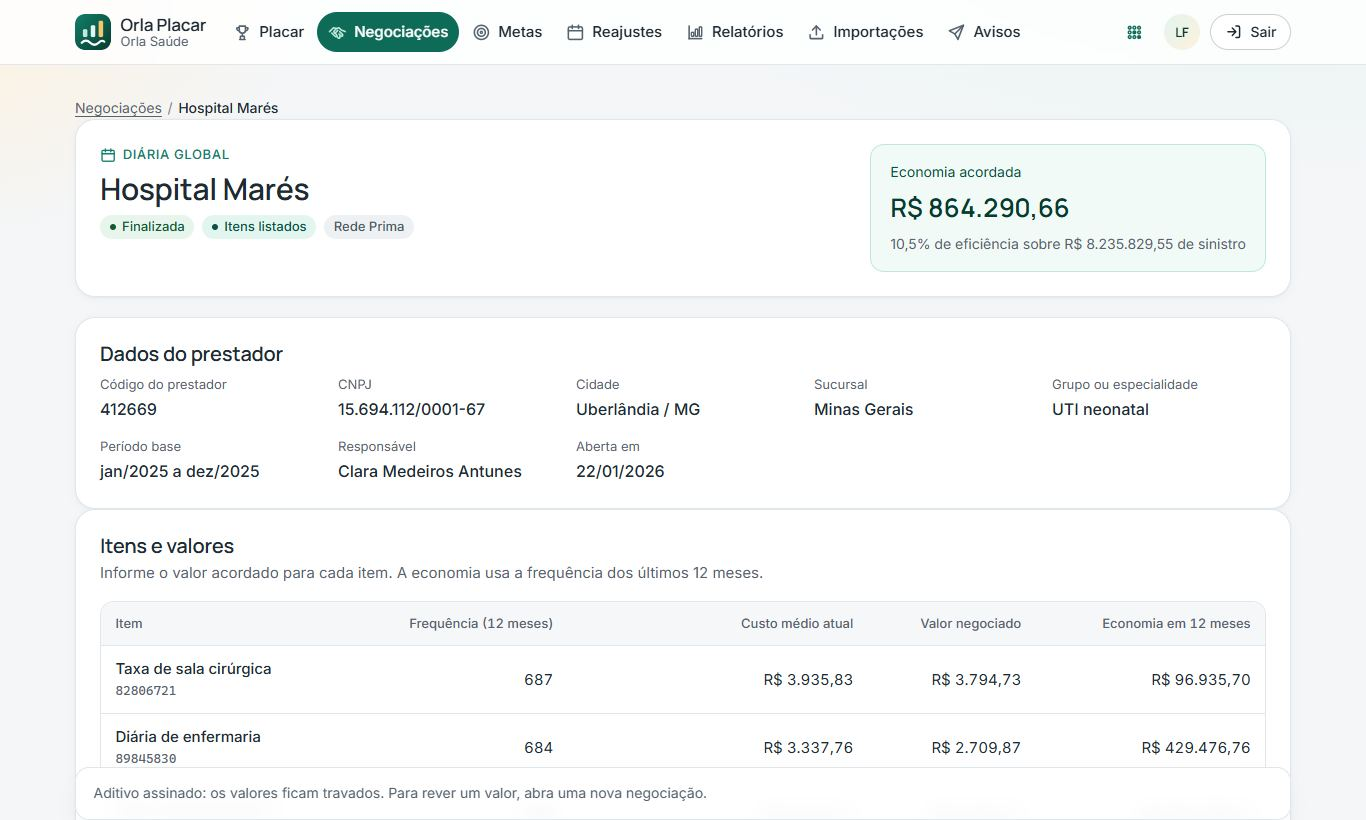
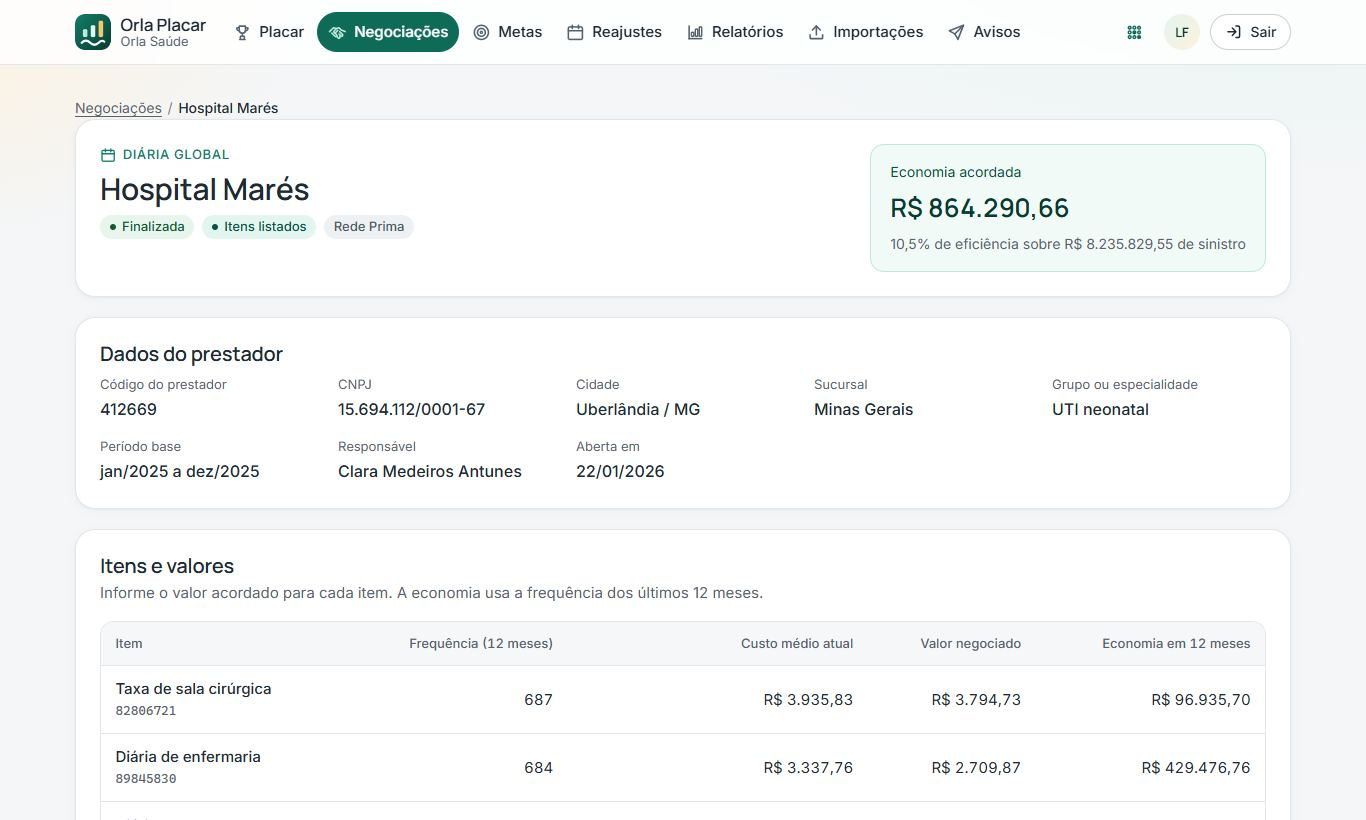
Refina espaçamentos e detalhes de design nos três produtos
- Barra de ações dentro de cartão vira rodapé do próprio cartão, e o
  botão principal fica sempre à direita (inclusive no passo 1 da ficha).
- Barra de ferramentas dos cadastros com busca e filtros na mesma altura
  e numa linha só; contagem com respiro antes da tabela.
- Filtros de Reajustes e formulário de Importações reorganizados para não
  sobrar campo sozinho numa linha.
- Campo de arquivo com botão no estilo do DS e sem texto duplicado.
- Códigos e protocolos sem quebra de linha; selo do próximo reajuste
  junto do mês; itens com largura mínima em tabelas estreitas.
- Fila de distribuição e troca de emissor em largura total.
- Dados em duas colunas no celular e espaço entre formulários e cartões.
- Barra de negociação finalizada deixa de ficar presa ao rodapé da tela.
- Capturas do README atualizadas.

diff --git a/ds/ds.css b/ds/ds.css
@@ -190,7 +190,8 @@ a:hover { text-decoration-thickness: 2px; }
 .nowrap { white-space: nowrap; }
 .num { font-variant-numeric: tabular-nums; text-align: right; white-space: nowrap; }
 .tnum { font-variant-numeric: tabular-nums; }
-.mono { font-family: ui-monospace, "Cascadia Mono", Consolas, monospace; font-size: .92em; }
+.mono { font-family: ui-monospace, "Cascadia Mono", Consolas, monospace; font-size: .92em; white-space: nowrap; }
+.cluster.nowrap { flex-wrap: nowrap; }
 .stack > * + * { margin-top: 1.25rem; }
 .stack-sm > * + * { margin-top: .75rem; }
 .mt { margin-top: 1.25rem; }
@@ -268,7 +269,7 @@ a:hover { text-decoration-thickness: 2px; }
   padding: clamp(1rem, 2.5vw, 1.5rem);
   min-width: 0;
 }
-.card + .card { margin-top: 1.25rem; }
+.card + .card, form + .card, .card + form, form + section, .card + div:not([class]) { margin-top: 1.25rem; }
 .grid-2 > .card + .card, .grid-3 > .card + .card { margin-top: 0; }
 .grid-2 + .card, .card + .grid-2 { margin-top: 1.25rem; }
 .card__head {
@@ -288,13 +289,13 @@ a:hover { text-decoration-thickness: 2px; }
 /* Lista de definições (dados do prestador, da ficha etc.) */
 .facts {
   display: grid;
-  grid-template-columns: repeat(auto-fill, minmax(180px, 1fr));
+  grid-template-columns: repeat(auto-fill, minmax(min(180px, 42%), 1fr));
   gap: .9rem 1.5rem;
   margin: 0;
 }
 .facts div { min-width: 0; }
 .facts dt { font-size: .8125rem; color: var(--text-muted); }
-.facts dd { margin: .1rem 0 0; font-weight: 500; overflow-wrap: anywhere; }
+.facts dd { margin: .1rem 0 0; font-weight: 500; overflow-wrap: break-word; }
 
 /* ----------------------------------------------------------------- Botões */
 .btn {
@@ -384,6 +385,7 @@ a:hover { text-decoration-thickness: 2px; }
   gap: 1rem 1.25rem;
 }
 .form-grid > * { grid-column: span 12; }
+.choice-group + .form-grid, .form-grid + .form-grid, .form-grid + .choice-group { margin-top: 1rem; }
 @media (min-width: 720px) {
   .form-grid > .span-2 { grid-column: span 2; }
   .form-grid > .span-3 { grid-column: span 3; }
@@ -446,6 +448,20 @@ a:hover { text-decoration-thickness: 2px; }
 .input:focus-visible, .select:focus-visible, .textarea:focus-visible { border-color: var(--accent-600); border-radius: var(--radius-sm); }
 .input[readonly] { background: var(--surface-2); border-style: dashed; }
 .input:disabled, .select:disabled, .textarea:disabled { background: var(--surface-2); color: var(--text-muted); cursor: not-allowed; }
+.input[type="file"] { padding: .35rem .4rem; cursor: pointer; }
+.input[type="file"]::file-selector-button {
+  margin-right: .85rem;
+  padding: .45rem 1rem;
+  border: 1px solid var(--border-strong);
+  border-radius: 999px;
+  background: var(--surface);
+  color: var(--text);
+  font: inherit;
+  font-size: var(--text-sm);
+  font-weight: 500;
+  cursor: pointer;
+}
+.input[type="file"]:hover::file-selector-button { background: var(--surface-3); }
 .input--money, .input--num { text-align: right; font-variant-numeric: tabular-nums; }
 .input--sm, .select--sm { min-height: 36px; padding-block: .3rem; font-size: var(--text-sm); }
 [aria-invalid="true"] { border-color: var(--danger) !important; box-shadow: 0 0 0 1px var(--danger); }
@@ -540,11 +556,23 @@ a:hover { text-decoration-thickness: 2px; }
   backdrop-filter: blur(10px);
 }
 .form-actions p { margin: 0; font-size: var(--text-sm); color: var(--text-muted); }
+.form-actions > :last-child { margin-left: auto; }
+/* Dentro de um cartão, a barra vira o rodapé dele (sem cartão dentro de cartão) */
+.card > .form-actions,
+.card .form-actions:last-child {
+  margin: 1.5rem calc(-1 * clamp(1rem, 2.5vw, 1.5rem)) calc(-1 * clamp(1rem, 2.5vw, 1.5rem));
+  padding: .9rem clamp(1rem, 2.5vw, 1.5rem);
+  border-width: 1px 0 0;
+  border-radius: 0 0 var(--radius-lg) var(--radius-lg);
+  box-shadow: 0 -10px 20px -16px rgb(16 32 48 / .25);
+}
+.form-actions--static { margin-bottom: 1.25rem; position: static; box-shadow: none; background: var(--surface-2); }
 
 /* Filtros */
 .filters .form-grid { align-items: end; }
 .filters__actions { display: flex; flex-wrap: wrap; justify-content: flex-end; gap: .5rem; margin-top: 1rem; }
 .filters__actions--split { justify-content: space-between; align-items: center; }
+.form-grid > .filters__actions--inline { align-self: end; margin-top: 0; }
 .filters .segmented { margin-bottom: 1rem; }
 .toolbar {
   display: flex;
@@ -554,13 +582,15 @@ a:hover { text-decoration-thickness: 2px; }
   gap: .75rem 1rem;
   margin-bottom: 1rem;
 }
-.toolbar .cluster > .select { width: auto; min-width: 180px; max-width: 260px; }
+.toolbar .cluster { flex: 1 1 auto; }
+.toolbar .cluster > .select { width: auto; min-width: 170px; max-width: 240px; }
+.toolbar + .toolbar__info { margin: -.25rem 0 .85rem; }
 .col-actions .btn-row { flex-wrap: nowrap; gap: .25rem; justify-content: flex-end; }
 .toolbar__info { margin: 0; color: var(--text-muted); font-size: var(--text-md); }
 .search {
   position: relative;
-  flex: 1 1 260px;
-  max-width: 420px;
+  flex: 1 1 220px;
+  max-width: 340px;
 }
 .search .icon { position: absolute; left: .85rem; top: 50%; transform: translateY(-50%); color: var(--text-muted); pointer-events: none; }
 .search .input { padding-left: 2.6rem; border-radius: 999px; }
@@ -854,12 +884,14 @@ a:hover { text-decoration-thickness: 2px; }
   white-space: nowrap;
 }
 .table tbody th { font-weight: 500; }
+.table tbody th[scope="row"] { min-width: 9rem; }
 .table tbody tr:last-child > * { border-bottom: 0; }
 .table tbody tr:hover > * { background: var(--accent-50); }
 .table tr.is-selected > * { background: var(--accent-50); }
 .table tr.is-highlight > * { background: var(--signal-100); }
 .table tfoot td, .table tfoot th { background: var(--surface-2); font-weight: 600; border-top: 1px solid var(--border); border-bottom: 0; }
 .table .num { text-align: right; }
+.table .input--num, .table .input--money { max-width: 150px; margin-left: auto; }
 .table--compact th, .table--compact td { padding: .45rem .7rem; }
 .col-check { width: 44px; }
 .col-check input { width: 18px; height: 18px; margin: 0; accent-color: var(--primary); cursor: pointer; }

diff --git a/controle-aditamento/reajustes.html b/controle-aditamento/reajustes.html
@@ -38,11 +38,11 @@
       <form class="card filters" id="filtros" novalidate aria-labelledby="filtros-titulo">
         <h2 class="visually-hidden" id="filtros-titulo">Filtros</h2>
         <div class="form-grid">
-          <div class="field span-3">
+          <div class="field span-4">
             <label for="f-busca">Prestador ou cidade</label>
             <input class="input" id="f-busca" name="busca" type="search" autocomplete="off">
           </div>
-          <div class="field span-3">
+          <div class="field span-4">
             <label for="f-sucursal">Sucursal</label>
             <select class="select" id="f-sucursal" name="sucursal"></select>
           </div>
@@ -54,18 +54,18 @@
             <label for="f-indice">Índice</label>
             <select class="select" id="f-indice" name="indice"></select>
           </div>
-          <div class="field span-2">
+          <div class="field span-3">
             <label for="f-de">Reajuste a partir de</label>
             <input class="input" id="f-de" name="de" type="month" placeholder="AAAA-MM">
           </div>
-          <div class="field span-2">
+          <div class="field span-3">
             <label for="f-ate">Reajuste até</label>
             <input class="input" id="f-ate" name="ate" type="month" placeholder="AAAA-MM">
           </div>
-        </div>
-        <div class="filters__actions">
-          <button class="btn" type="button" id="limpar">Limpar filtros</button>
-          <button class="btn btn--primary" type="submit"><svg class="icon" aria-hidden="true" focusable="false"><use href="../ds/icons.svg#i-search"/></svg> Filtrar</button>
+          <div class="filters__actions filters__actions--inline span-6">
+            <button class="btn" type="button" id="limpar">Limpar filtros</button>
+            <button class="btn btn--primary" type="submit"><svg class="icon" aria-hidden="true" focusable="false"><use href="../ds/icons.svg#i-search"/></svg> Filtrar</button>
+          </div>
         </div>
       </form>
 

diff --git a/controle-aditamento/importacoes.html b/controle-aditamento/importacoes.html
@@ -40,16 +40,16 @@
             <p class="hint" id="arquivo-dica">Arquivos .xlsx, .xls ou .csv de até 10 MB. Neste protótipo o arquivo não é lido nem enviado.</p>
             <input class="input" type="file" id="arquivo" name="arquivo" accept=".xlsx,.xls,.csv" aria-describedby="arquivo-dica arquivo-nome">
           </div>
-          <p id="arquivo-nome" aria-live="polite">Nenhum arquivo escolhido.</p>
+          <p id="arquivo-nome" aria-live="polite"></p>
         </div>
         <div class="form-grid mt">
-          <div class="field span-4">
+          <div class="field span-6">
             <label for="tipo">Tipo de aditivo <span class="req" aria-hidden="true">*</span></label>
             <select class="select" id="tipo" name="tipo" required></select>
           </div>
-        </div>
-        <div class="btn-row btn-row--end mt">
-          <button class="btn btn--primary" type="submit"><svg class="icon" aria-hidden="true" focusable="false"><use href="../ds/icons.svg#i-upload"/></svg> Processar planilha</button>
+          <div class="filters__actions filters__actions--inline span-6">
+            <button class="btn btn--primary" type="submit"><svg class="icon" aria-hidden="true" focusable="false"><use href="../ds/icons.svg#i-upload"/></svg> Processar planilha</button>
+          </div>
         </div>
       </form>
 

diff --git a/controle-aditamento/js/reajustes.js b/controle-aditamento/js/reajustes.js
@@ -39,7 +39,7 @@
     { key: 'sucursal', label: 'Sucursal', sort: (r) => R.prestador(r.codigo).sucursal, render: (r) => R.prestador(r.codigo).sucursal, csv: (r) => R.sucursalNome(R.prestador(r.codigo).sucursal) },
     { key: 'indice', label: 'Índice', sort: true },
     { key: 'ultimo', label: 'Último reajuste', sort: true, render: (r) => h('span', null, fmt.competencia(r.ultimo), h('span', { class: 'cell-sub', text: fmt.decimal(r.percentual) + '%' })), csv: (r) => fmt.competencia(r.ultimo) + ' (' + fmt.decimal(r.percentual) + '%)' },
-    { key: 'proximo', label: 'Próximo reajuste', sort: true, render: (r) => h('span', { class: 'cluster' }, fmt.competencia(r.proximo), quando(r.proximo)), csv: (r) => fmt.competencia(r.proximo) },
+    { key: 'proximo', label: 'Próximo reajuste', sort: true, render: (r) => h('span', { class: 'cluster nowrap' }, fmt.competencia(r.proximo), quando(r.proximo)), csv: (r) => fmt.competencia(r.proximo) },
     { key: '_acao', label: 'Ações', srOnly: true, class: 'col-actions', render: (r) => h('button', { type: 'button', class: 'btn btn--ghost btn--icon btn--sm', 'aria-label': 'Alterar reajuste de ' + R.prestador(r.codigo).nome, onClick: () => alterar([r.id]) }, icon('edit')) }
   ];
 

diff --git a/controle-aditamento/js/importacoes.js b/controle-aditamento/js/importacoes.js
@@ -70,7 +70,7 @@
 
   arquivo.addEventListener('change', () => {
     const f = arquivo.files[0];
-    document.getElementById('arquivo-nome').textContent = f ? f.name + ' (' + Math.max(1, Math.round(f.size / 1024)) + ' KB)' : 'Nenhum arquivo escolhido.';
+    document.getElementById('arquivo-nome').textContent = f ? 'Pronto para processar: ' + f.name + ' (' + Math.max(1, Math.round(f.size / 1024)) + ' KB).' : '';
   });
 
   form.addEventListener('submit', (ev) => {
@@ -112,7 +112,7 @@
       form.removeAttribute('aria-busy');
       DS.fill(enviar, icon('upload'), 'Processar planilha');
       form.reset();
-      document.getElementById('arquivo-nome').textContent = 'Nenhum arquivo escolhido.';
+      document.getElementById('arquivo-nome').textContent = '';
       DS.toast(avisos ? 'Planilha processada com ' + fmt.plural(avisos, 'aviso', 'avisos') + '. Veja os detalhes no protocolo ' + novo.protocolo + '.' : 'Planilha processada. ' + novo.atualizados + ' prestadores atualizados.', avisos ? 'error' : null);
     }, 1200);
   });

diff --git a/novo-painel-sgta/js/carga.js b/novo-painel-sgta/js/carga.js
@@ -31,7 +31,7 @@
 
   arquivo.addEventListener('change', () => {
     const f = arquivo.files[0];
-    document.getElementById('arquivo-nome').textContent = f ? f.name : 'Nenhum arquivo escolhido.';
+    document.getElementById('arquivo-nome').textContent = f ? 'Pronto para carregar: ' + f.name + '.' : '';
   });
 
   form.addEventListener('submit', (ev) => {
@@ -67,7 +67,7 @@
       form.removeAttribute('aria-busy');
       DS.fill(enviar, icon('upload'), 'Carregar base');
       form.reset();
-      document.getElementById('arquivo-nome').textContent = 'Nenhum arquivo escolhido.';
+      document.getElementById('arquivo-nome').textContent = '';
       DS.toast('Base carregada: protocolo ' + nova.protocolo + ', ' + nova.linhas + ' linhas lidas.');
     }, 1100);
   });

diff --git a/novo-painel-sgta/carga.html b/novo-painel-sgta/carga.html
@@ -38,7 +38,7 @@
             <label for="arquivo">Planilha da base <span class="req" aria-hidden="true">*</span></label>
             <p class="hint" id="arquivo-dica">.xlsx, .xls ou .csv. Neste protótipo o arquivo não é lido nem enviado.</p>
             <input class="input" type="file" id="arquivo" name="arquivo" accept=".xlsx,.xls,.csv" aria-describedby="arquivo-dica arquivo-nome">
-            <p class="hint" id="arquivo-nome" aria-live="polite">Nenhum arquivo escolhido.</p>
+            <p class="hint" id="arquivo-nome" aria-live="polite"></p>
           </div>
         </div>
         <div class="btn-row btn-row--end">

diff --git a/ds/ds.js b/ds/ds.js
@@ -1302,7 +1302,7 @@
     const busca = h('input', { class: 'input', type: 'search', id: buscaId, placeholder: 'Buscar', autocomplete: 'off' });
     const filtrosEls = (op.filtros || []).map((f) => {
       const id = uid('filtro');
-      const sel = h('select', { class: 'select select--sm', id, 'aria-label': f.label });
+      const sel = h('select', { class: 'select', id, 'aria-label': f.label });
       selectOptions(sel, typeof f.opcoes === 'function' ? f.opcoes() : f.opcoes, f.todos || 'Todos: ' + f.label.toLowerCase());
       if (f.inicial) sel.value = f.inicial;
       sel.addEventListener('change', atualizar);

diff --git a/novo-controle-aditamento/distribuicao.html b/novo-controle-aditamento/distribuicao.html
@@ -38,7 +38,7 @@
             <div id="carga"></div>
           </section>
 
-          <div class="grid-2 mt">
+          <div class="mt">
             <section class="card" aria-labelledby="fila-titulo">
               <div class="card__head"><div><h2 id="fila-titulo">Fila de distribuição</h2><p id="fila-info" aria-live="polite"></p></div></div>
               <div class="alert alert--info" id="fila-acoes" hidden>

diff --git a/controle-aditamento/js/negociacao.js b/controle-aditamento/js/negociacao.js
@@ -147,6 +147,7 @@
 
   if (!editavel) {
     DS.$$('input, textarea', form).forEach((el) => { el.disabled = true; });
+    document.getElementById('acoes').classList.add('form-actions--static');
     DS.fill(document.getElementById('acoes'),
       h('p', { text: neg.status === 'Finalizada'
         ? 'Aditivo assinado: os valores ficam travados. Para rever um valor, abra uma nova negociação.'

diff --git a/novo-painel-sgta/css/app.css b/novo-painel-sgta/css/app.css
@@ -182,7 +182,7 @@
 
 /* Matriz de acessos */
 .matrix th, .matrix td { text-align: center; }
-.matrix tbody th { text-align: left; }
+.matrix tbody th, .matrix thead th:first-child { text-align: left; }
 .matrix input { width: 20px; height: 20px; accent-color: var(--primary); }
 
 /* Glossário */
